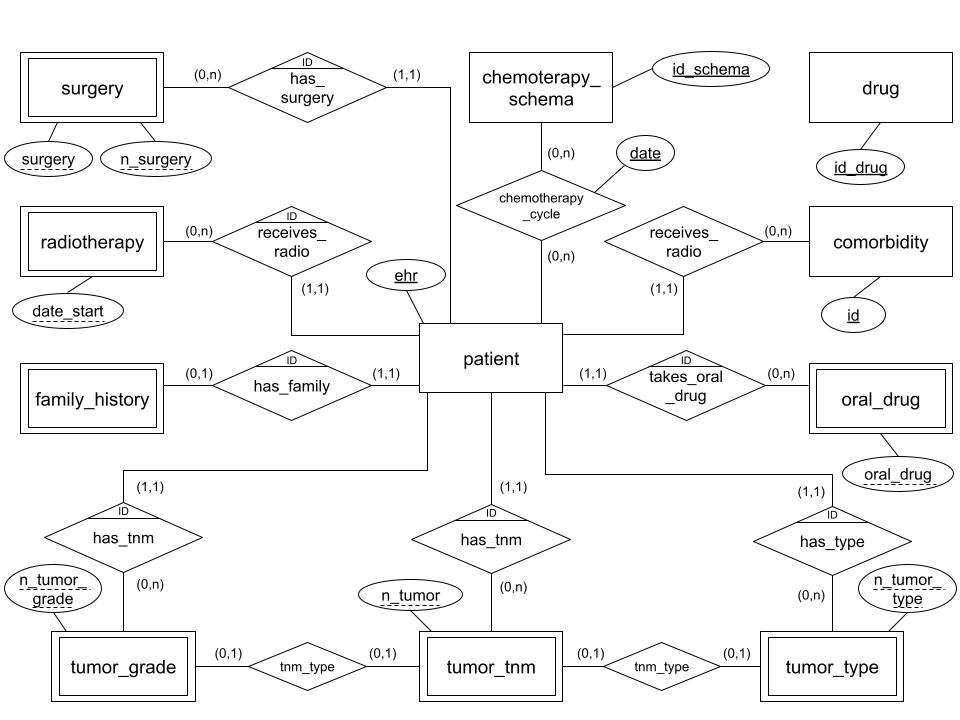
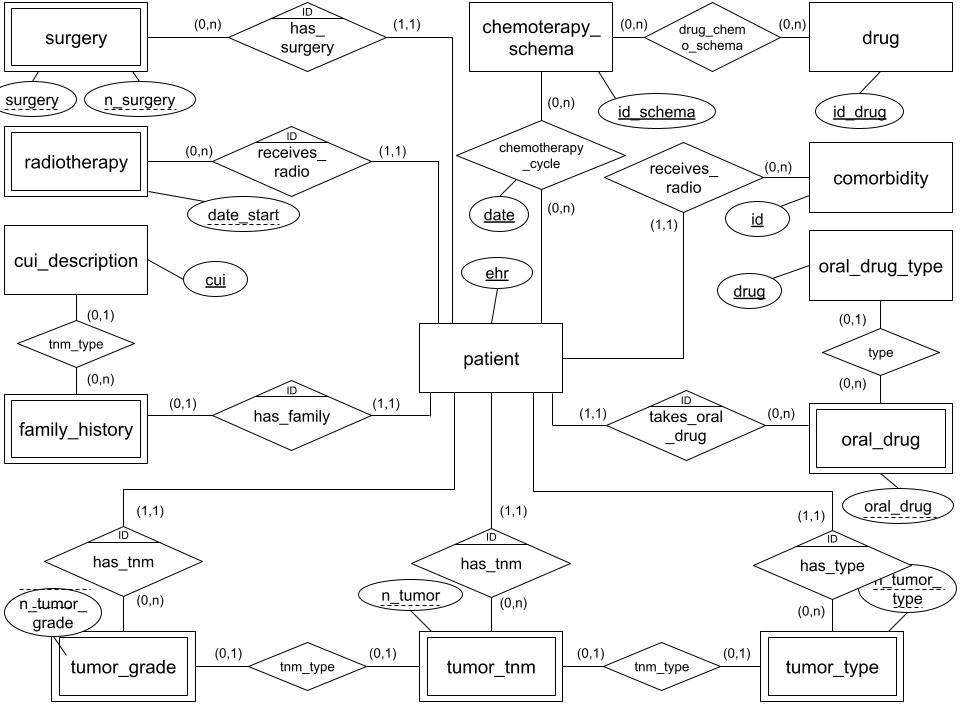
Added some missing data to the data description

diff --git a/README.md b/README.md
@@ -161,8 +161,13 @@ __Data dictionary:__
 * oral_drug
   * ehr: INTEGER
   * drug: STRING
+* oral_drug_type
+  * drug: STRING
+  * drug_type: STRING
 * family_history
   * ehr: INTEGER
   * cancer_cui: STRING
-
+* cui_description
+  * cui: STRING
+  * description: STRING
 
